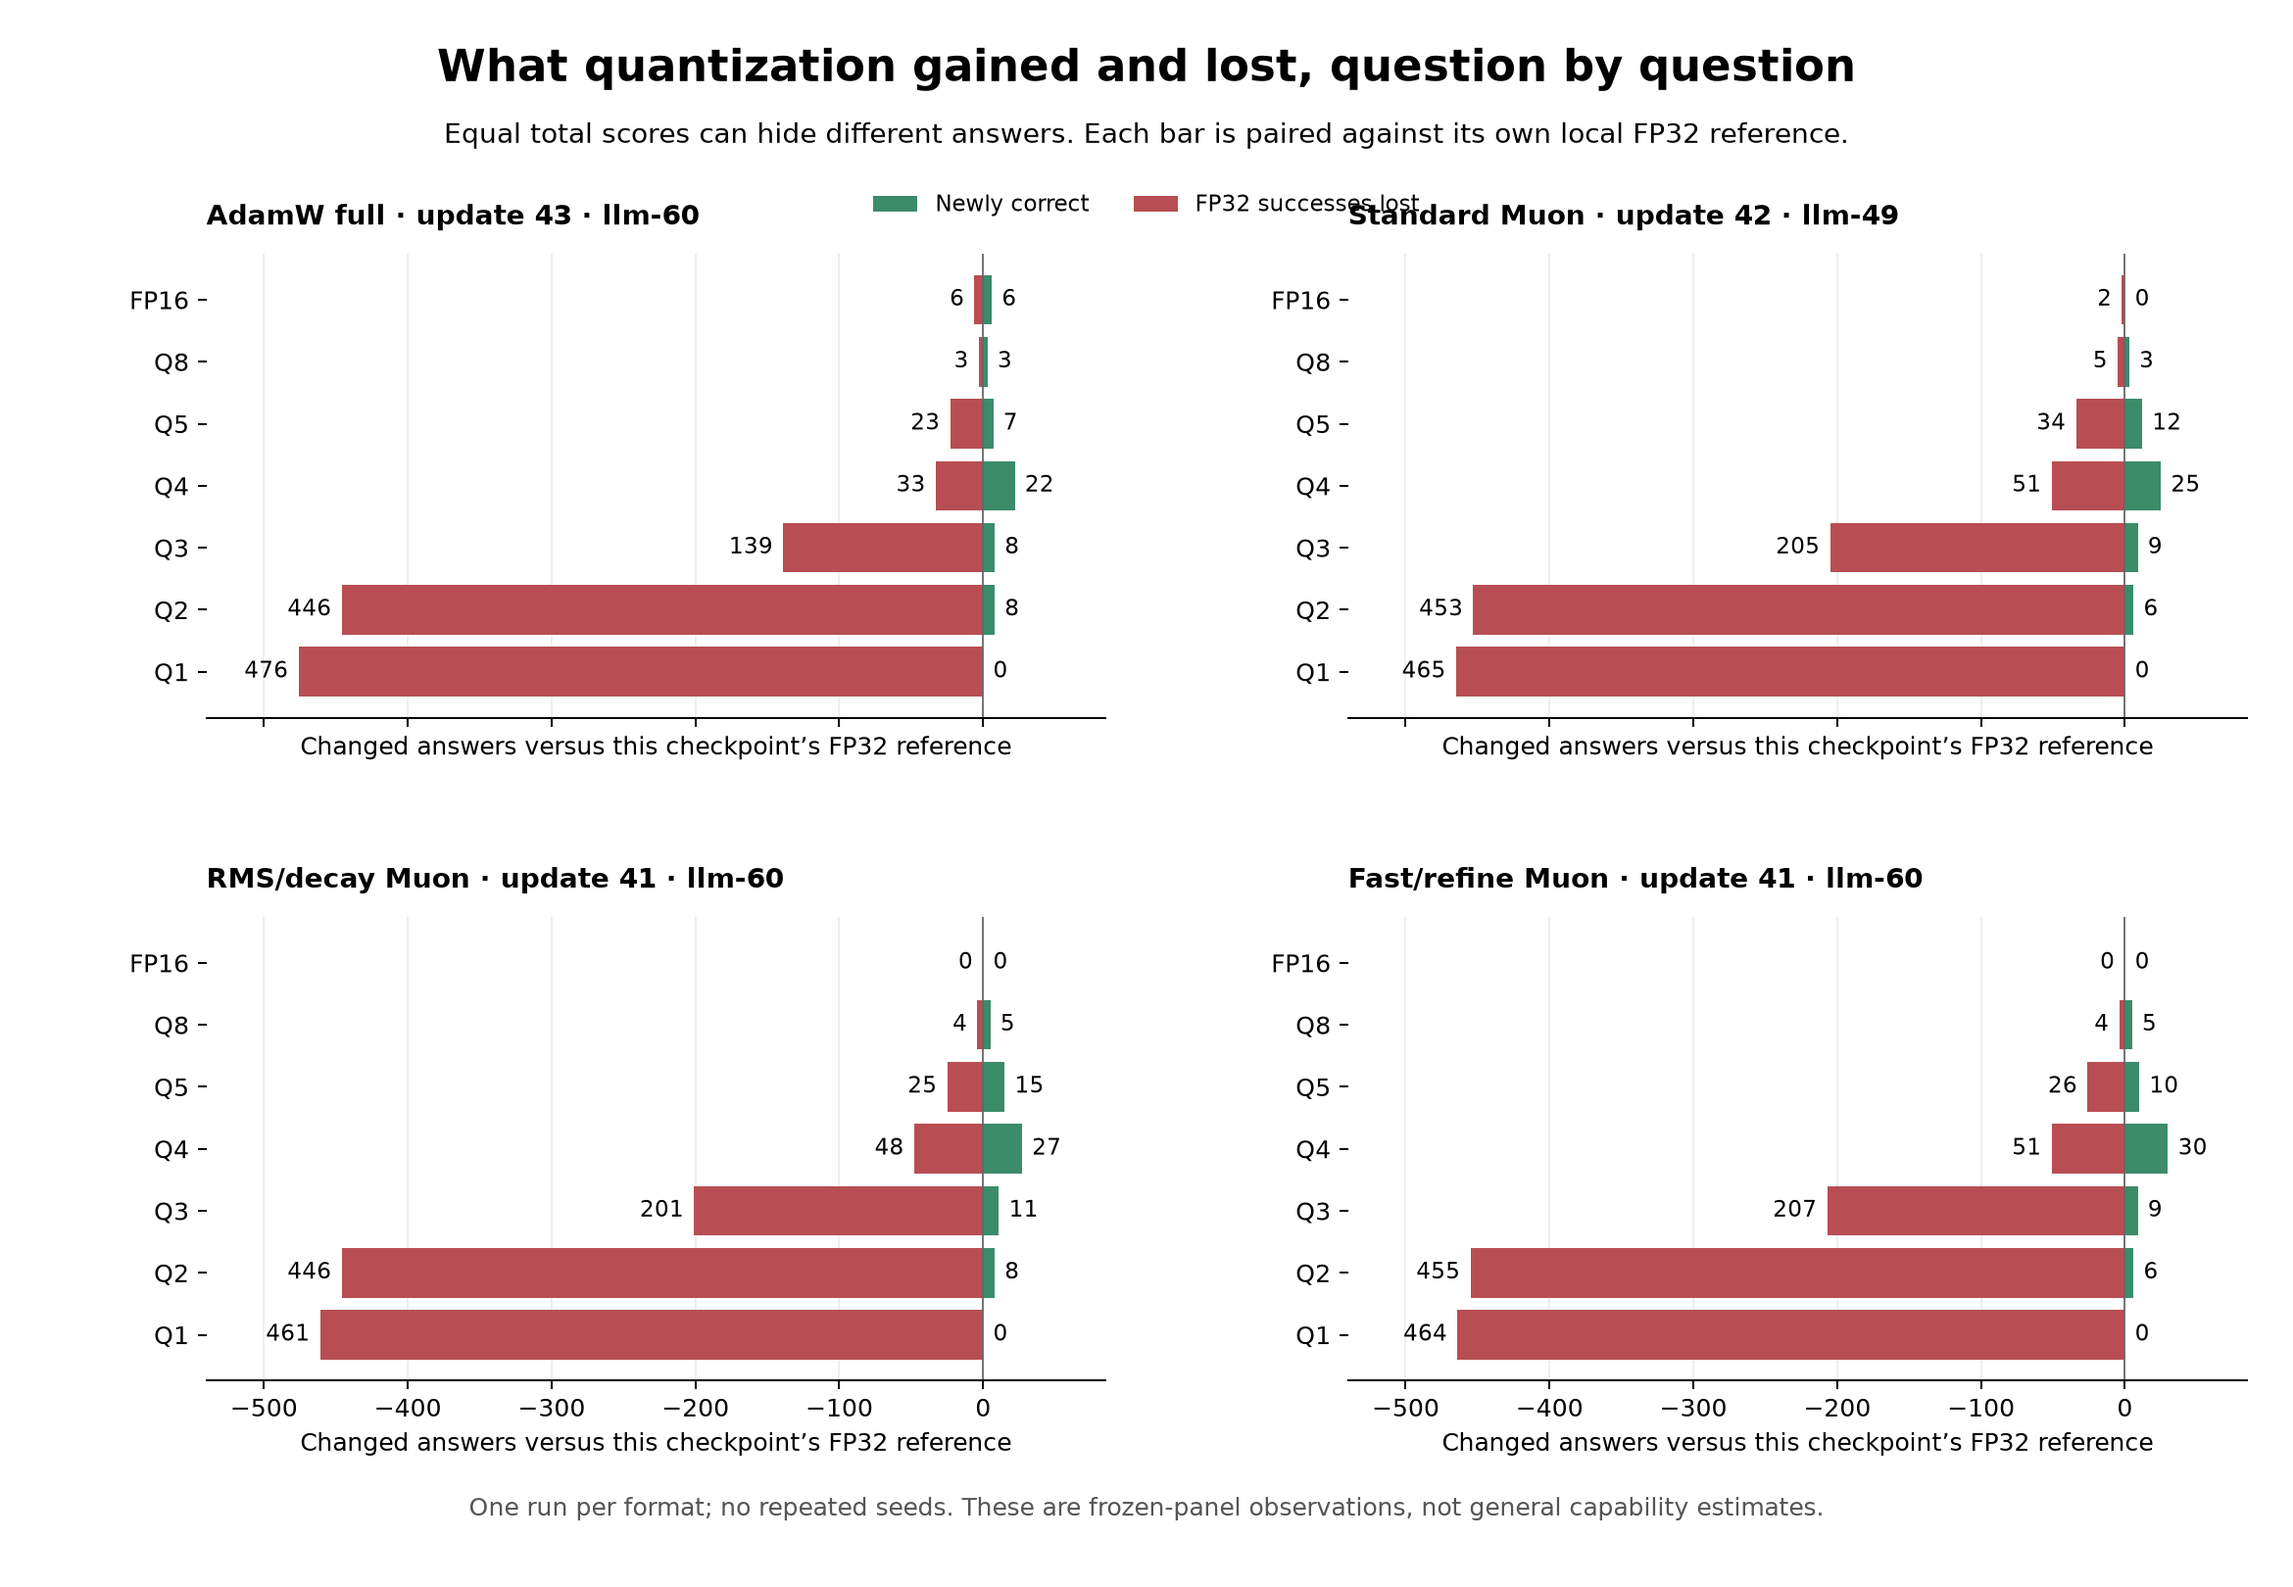
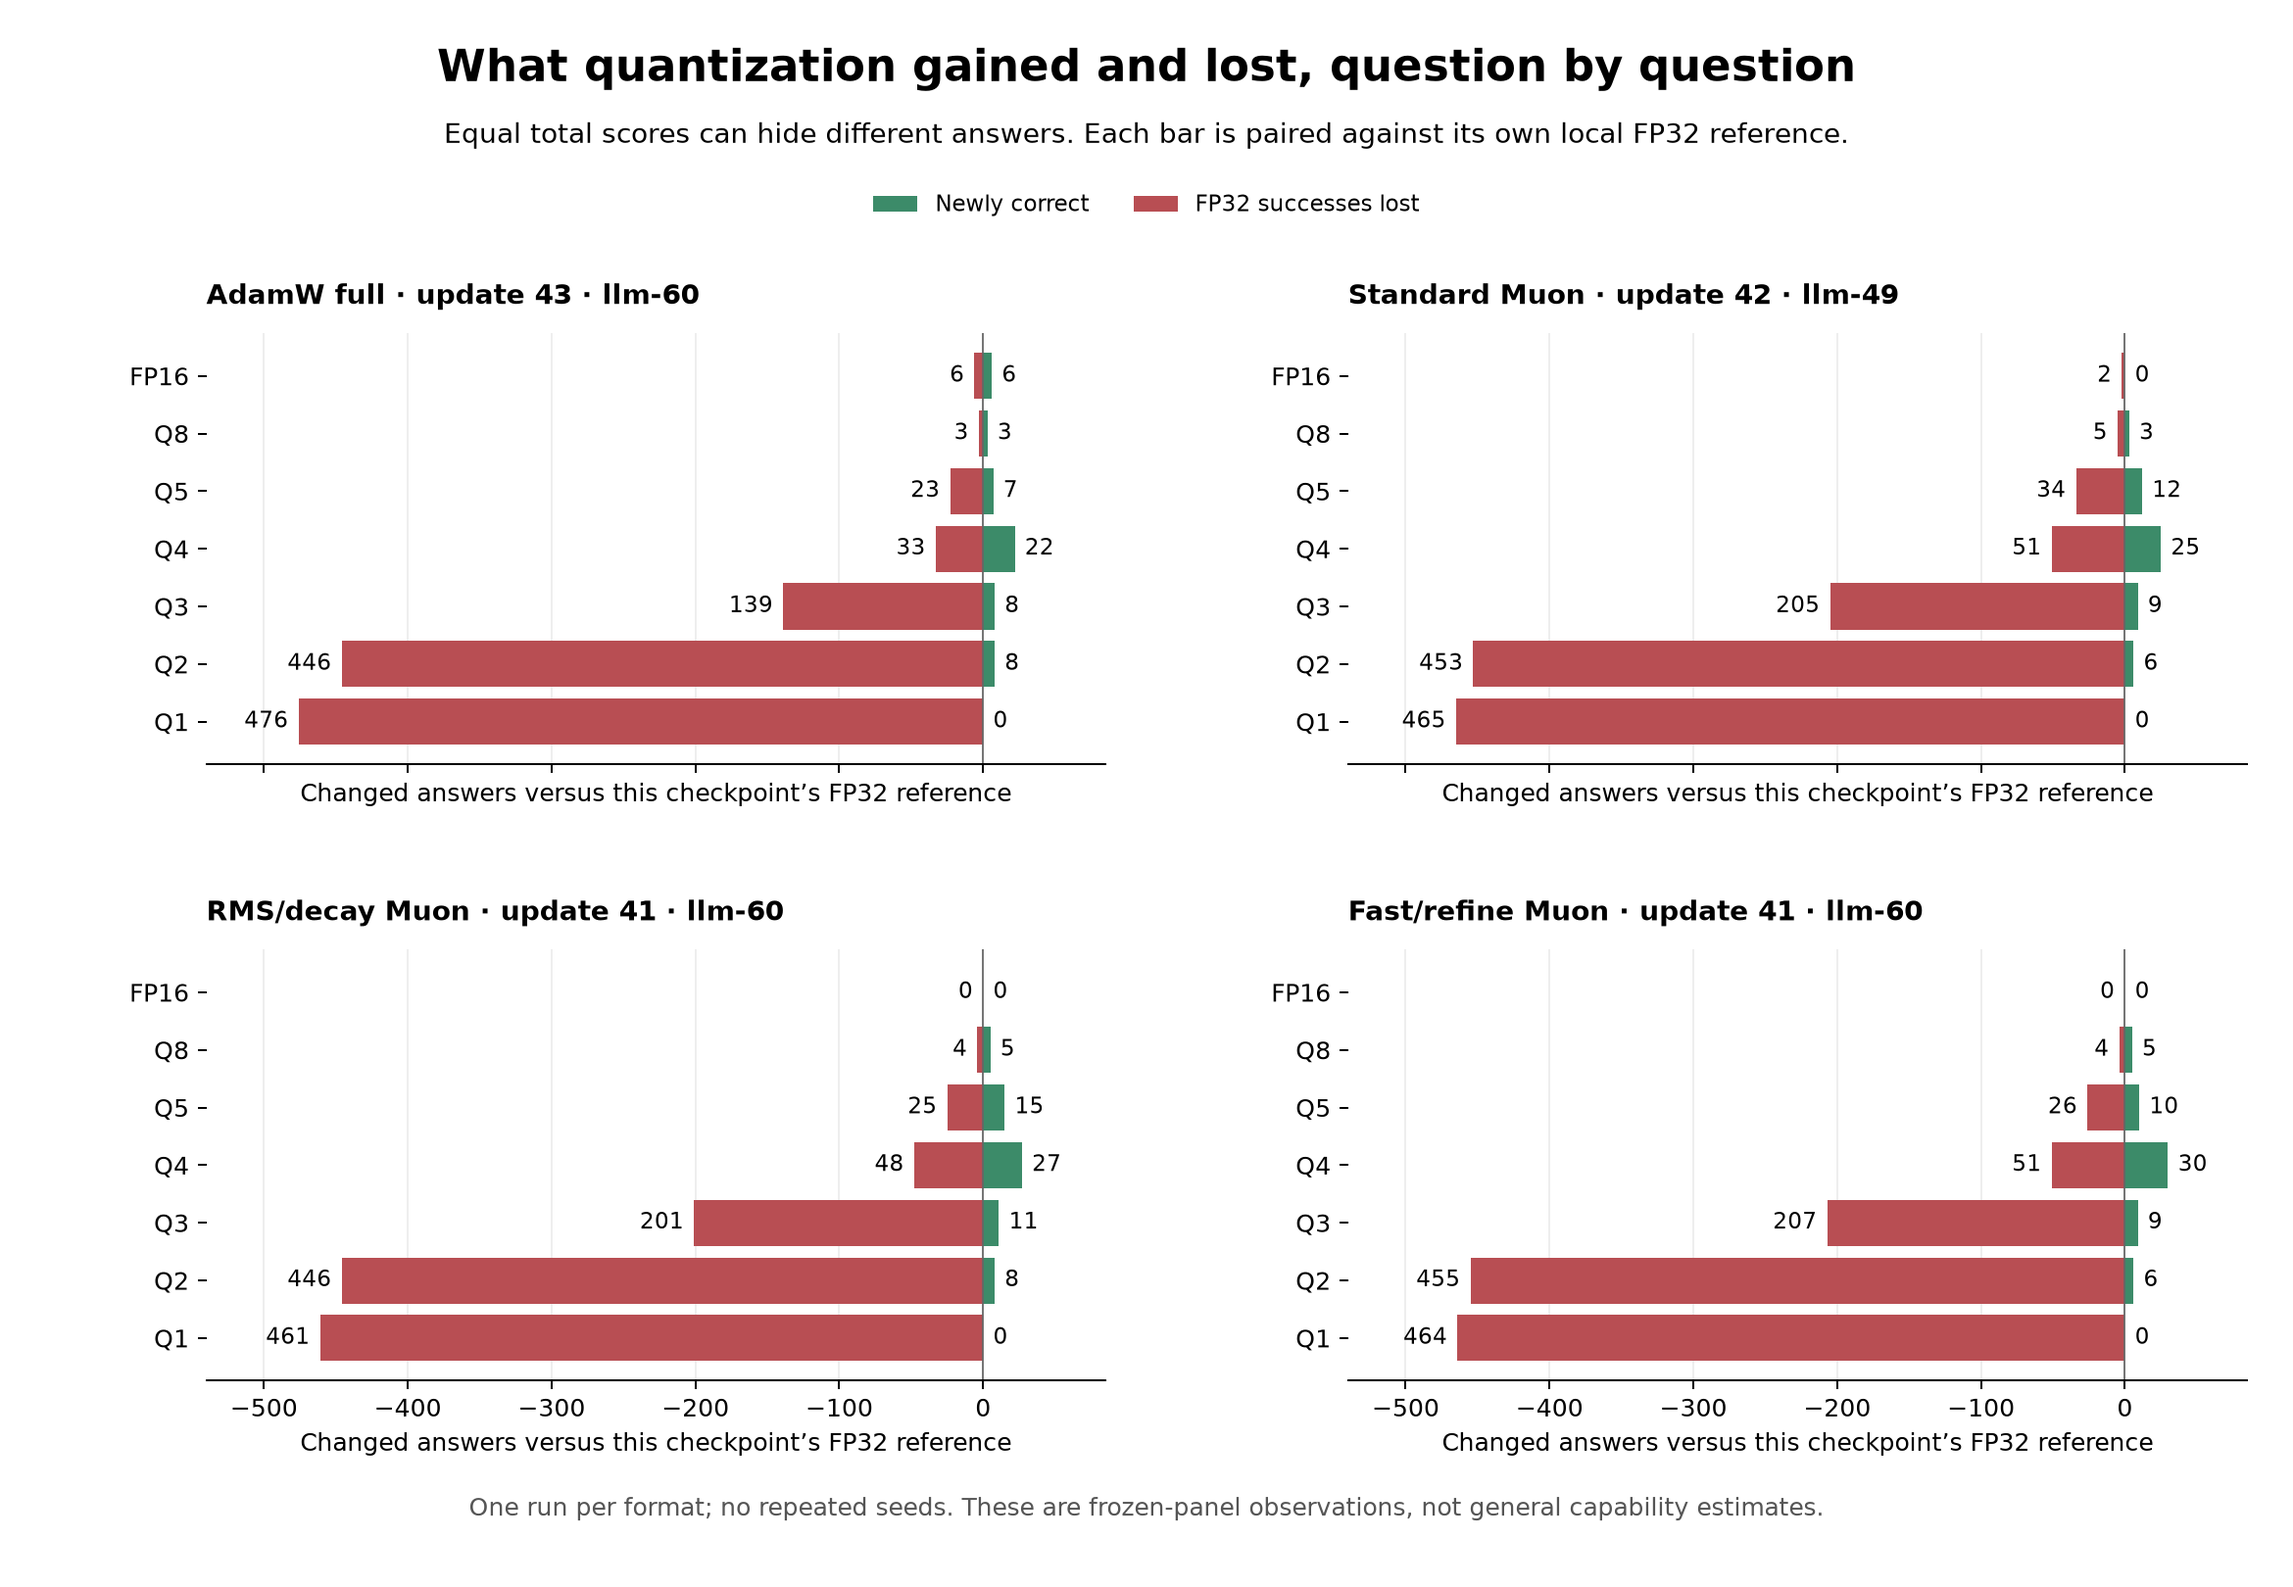
Keep precision chart legends clear of panel titles

diff --git a/docs/results/minicpm-20261026/plot_trained_precision_panels.py b/docs/results/minicpm-20261026/plot_trained_precision_panels.py
@@ -13,7 +13,7 @@ panels=[('adamw43','AdamW full · update 43 · llm-60'),
 formats=['F32','F16','Q8_0','Q5_K_M','Q4_K_M','Q3_K_M','Q2_K','Q1_0']
 labels=['FP32','FP16','Q8','Q5','Q4','Q3','Q2','Q1']
 fig,axes=plt.subplots(2,2,figsize=(13,9),sharey=True)
-fig.subplots_adjust(left=.075,right=.98,top=.85,bottom=.14,hspace=.45,wspace=.16)
+fig.subplots_adjust(left=.075,right=.98,top=.80,bottom=.14,hspace=.45,wspace=.16)
 for ax,(key,title) in zip(axes.flat,panels):
     data={r['format']:r for r in rows if r['panel']==key}
     correct=[int(data[f]['passed']) for f in formats]
@@ -35,7 +35,7 @@ fig.text(.5,.025,'Same 64-token response allowance. S³ scoring through PCC/COW.
 fig.savefig(ROOT/'trained-precision-panels.png',dpi=180,facecolor='white')
 
 fig,axes=plt.subplots(2,2,figsize=(13,9),sharex=True)
-fig.subplots_adjust(left=.09,right=.98,top=.84,bottom=.13,hspace=.43,wspace=.27)
+fig.subplots_adjust(left=.09,right=.98,top=.79,bottom=.13,hspace=.43,wspace=.27)
 for ax,(key,title) in zip(axes.flat,panels):
     data={r['format']:r for r in rows if r['panel']==key}
     gains=[int(data[f]['answer_gains']) for f in formats[1:]]
